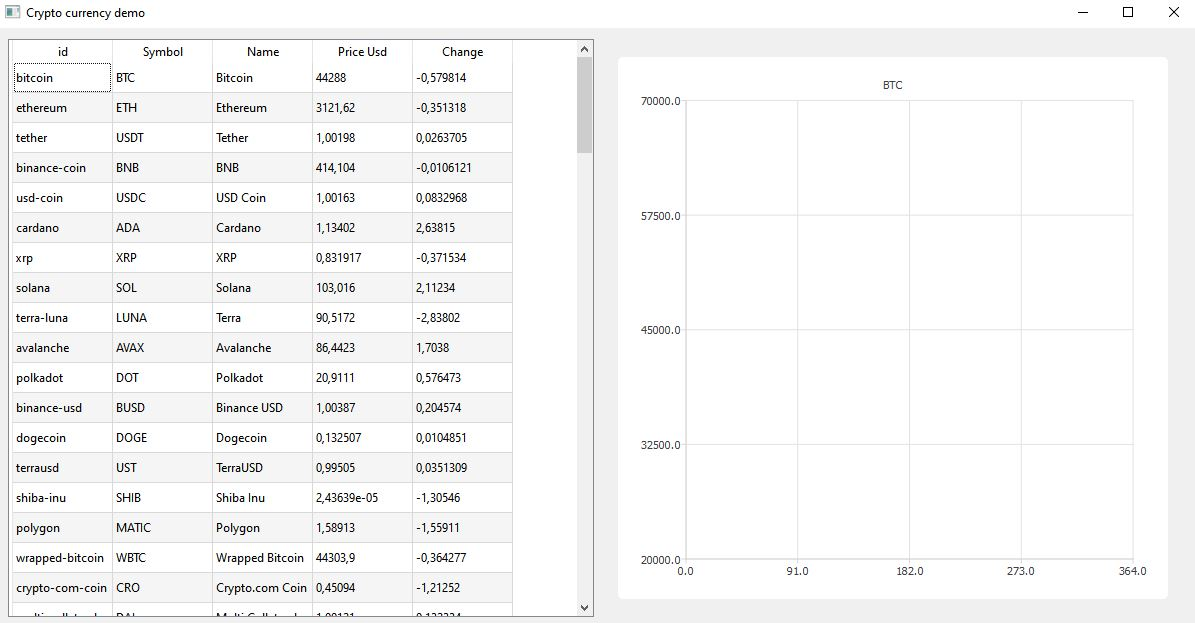
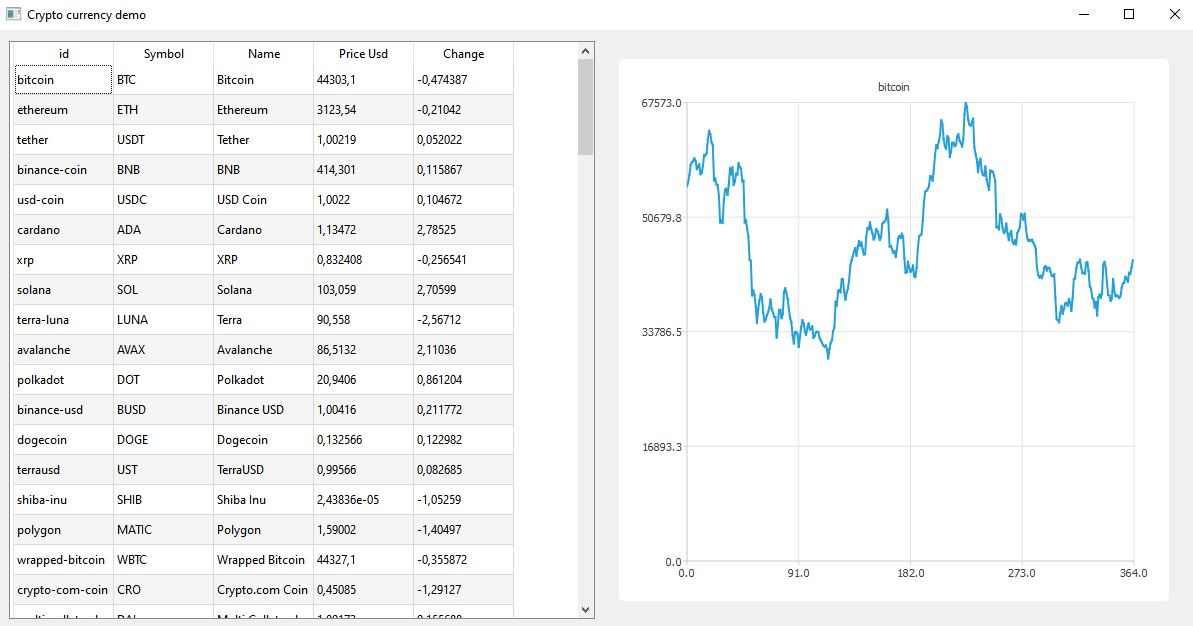
update readme for demo picture

diff --git a/README.md b/README.md
@@ -2,4 +2,4 @@
 
 This QT C++ project shows daily value of bitcoin. it uses RESTful API's from https://docs.coincap.io/ to get information 
 
-![Alt text](https://github.com/melihcicek/Crypto-currency-api-demo/blob/main/demo.JPG?raw=true "Title")
+![Alt text](https://github.com/melihcicek/Crypto-currency-api-demo/blob/main/demo2.JPG?raw=true "Title")
